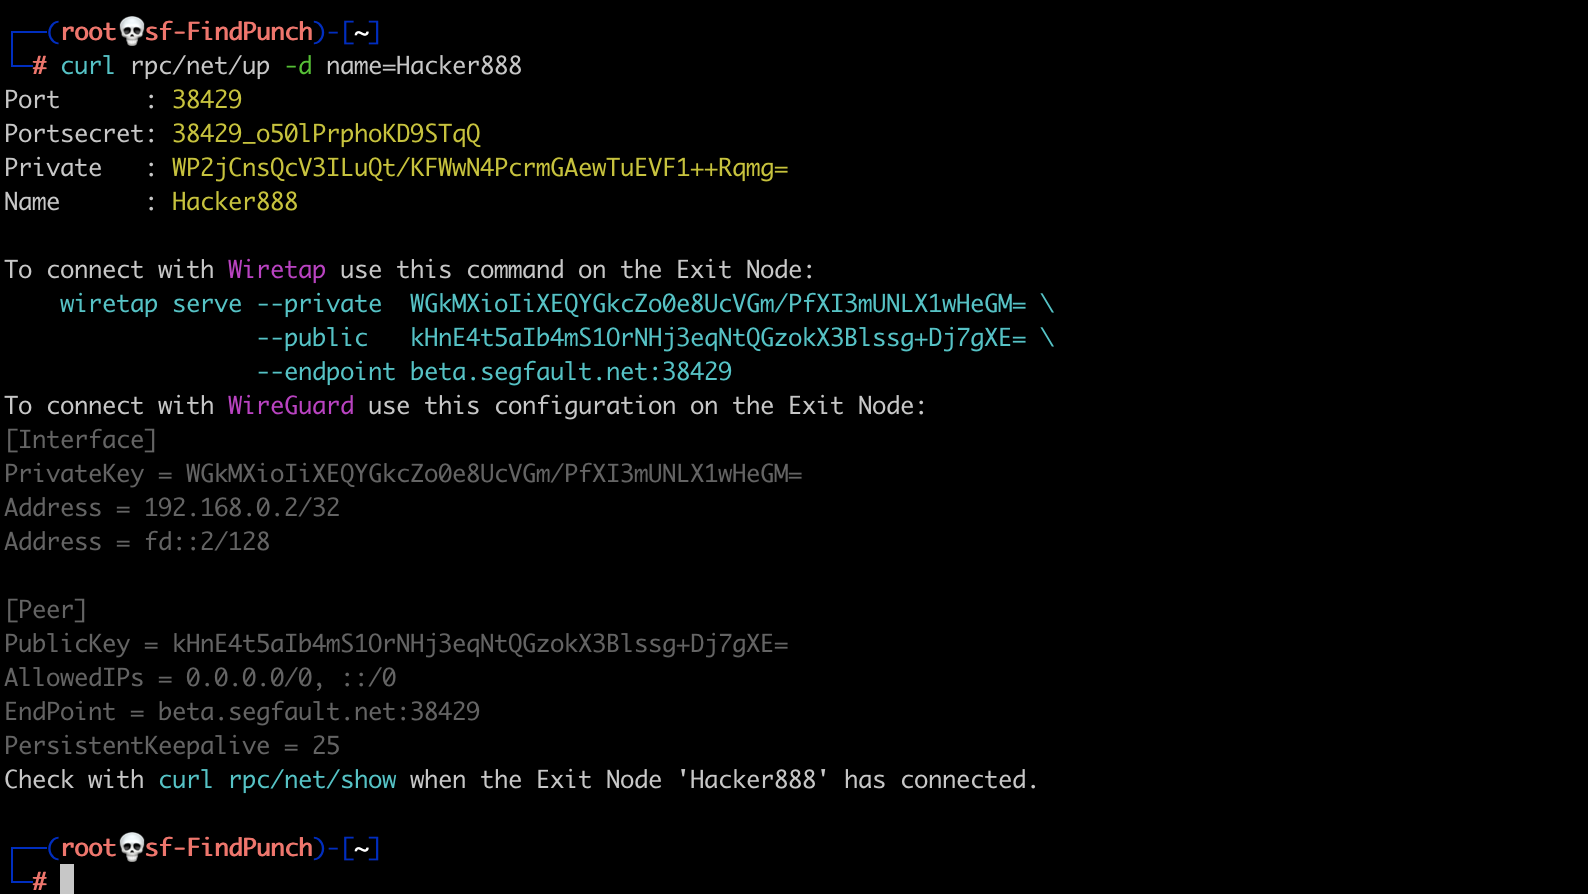
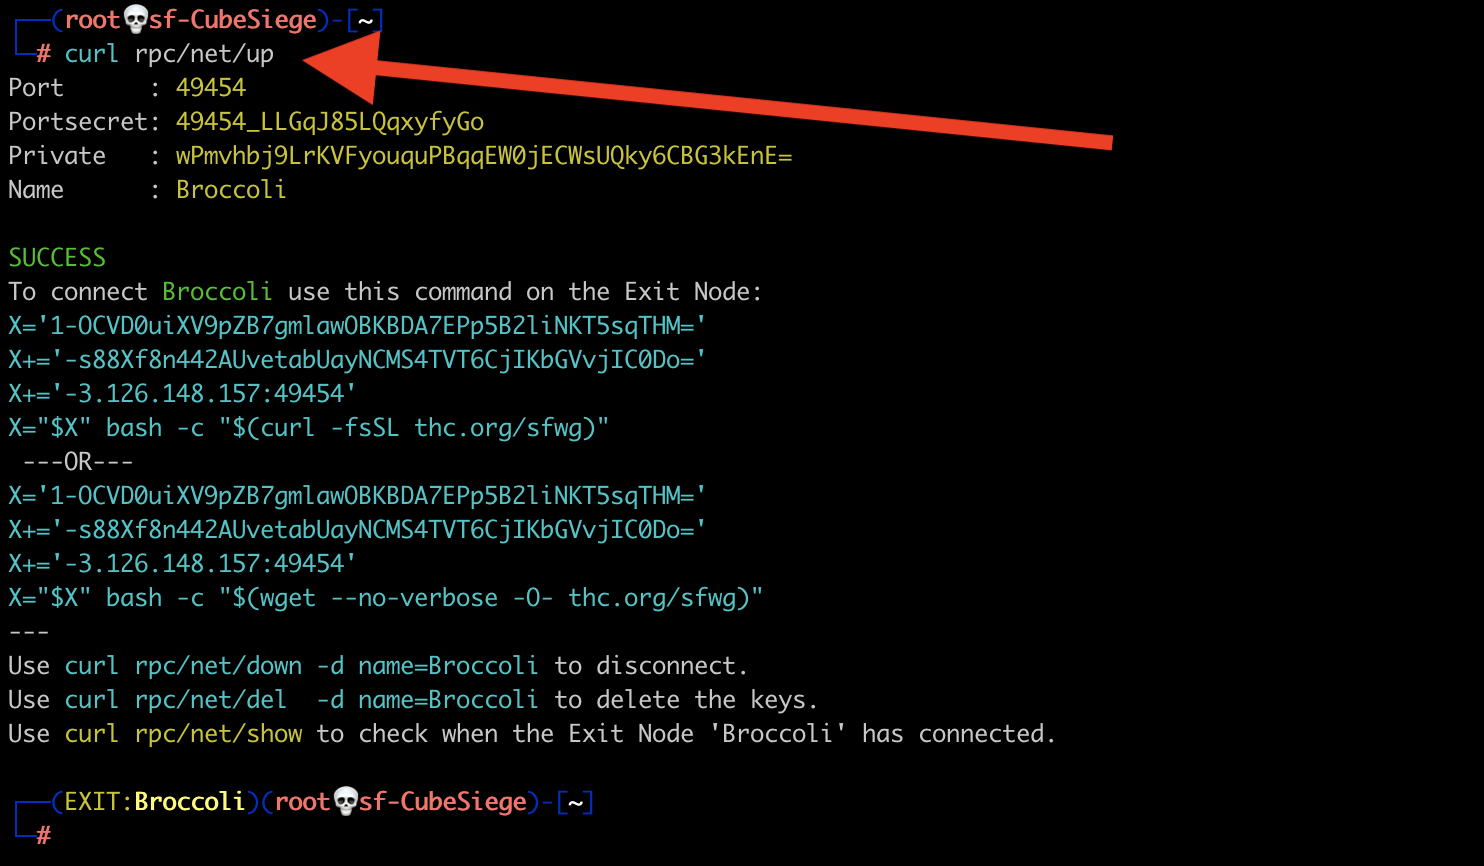
sfwg

Changed region(s): [[0.0, 0.2806, 0.7129, 1.0], [0.0, 0.0, 0.7749, 0.2494]]

diff --git a/segfault/wireguard/index.md b/segfault/wireguard/index.md
@@ -5,80 +5,93 @@ description: Setup WireGuard Reverse Connection on Segfault.
 ---
 
 <div style="text-align:center">
-    <h1>WireGuard Reverse Connection</h1>
+    <h1>Custom WireGuard Exit Nodes</h1>
     <p>Configure your Root Server to send all traffic via another server you own</p>
 </div>
 
 ---
 Typical use cases:
+1. You like to [mass-scan](../faq/#scan) from your [Root Server](../).
 1. You have access to a server (*Exit Node*) and like all traffic from your [Root Server](../) to be routed via your *Exit Node*.
-1. You like to connect from your [Root Server](../) to workstations on a remote firewalled/private LAN (e.g. with nmap, metasploit, smbscan, ...).
-1. You like to mass-scan from your [Root Server](../).
+1. You like to connect from your [Root Server](../) to workstations on a remote firewalled/private LAN (e.g. use nmap, metasploit, smbscan, on your [Root Server](../) to scan the private LAN...).
 1. You like all your traffic from your [Root Server](../) to appear as if originating from your *Exit Node* (a server you own).
 
-A new network interface will (magically) appear on your [Root Server](../): That interface is *virtually* connected to the *Exit Node*. All traffic via that interface will leave via the *Exit Node*.
+A new network interface (wgExit) will magically appear on your [Root Server](../): Traffic from your [Root Server](../) will now leave via the *Exit Node*.
 
-The *Exit Node* can be behind a firewalled NAT gateway (it uses a reverse connection). The *Exit Node* can be Linux, Windows or OSX and no superuser privileges are needed.
-
-No Interface will appear on the *Exit Node*.
+The *Exit Node* can be behind a firewalled NAT gateway (like your workstation is) or any other host on the Internet. Superuser privileges or root access is not needed.
 
 ---
 
 ## Step #1 - On your Root Server
 
-Create and activate a WireGuard interface:
+Create and activate an Exit Node configuration:
 
 ```shell
 curl http://rpc/net/up
 ```
 
-Write down either the Wiretap or WireGuard configuration.
-
 {:refdef: style="text-align: center;"}
 ![login screen](wg-up2.png){:height="80%" width="80%"}
 {: refdef}
 
+Your [Root Server](../) is now ready to accept an Exit Node.
+
 ## Step #2 - On the Exit Node
 
-The Exit Node is any host (Linux, Windows, OSX) you have access to and which network you like to connect to from your [Root Server](../).
+Cut & paste the output from above into the shell on your Exit Node:
+{:refdef: style="text-align: center;"}
+![login screen](sfwg.png){:height="80%" width="80%"}
+{: refdef}
 
-Use either Wiretap or WireGuard.
-
-1. __Wiretap:__ Install the pre-compiled single [Wiretap binary](https://github.com/sandialabs/wiretap/releases/tag/v0.2.1) for Linux, Windows or OSX. Execute the Wiretap command as shown in the output from your *curl http://rpc/net/up* command in Step #1.
-1. __WireGuard:__ Install & configure [WireGuard](https://www.wireguard.com/). Use the configuration as shown in the output from your *curl http://rpc/net/up* command in Step #1.
-
-On your [Root Server](../) check the connection:
-
-```shell
-curl http://rpc/net/show
-```
+**>> All traffic from your Root Server will now leave via the Exit Node <<**
 
 ## More Shenanigans
 
-Each command is executted on the [Root Server](../) (after the Exit Node has connected).
+Each command is executed on the [Root Server](../) (after the Exit Node has connected).
+
+__Check Exit Node__
+
+```
+curl http://rpc/net/show
+```
+
+__Masscan the Internet__
+
+```
+### Simple
+masscan --interface wgExit -p 22,80,443 --range 1.0.0.0-8.255.255.255
+### With banner grabbing:
+masscan --interface wgExit -p 22,80,443 --range 1.0.0.0-8.255.255.255 --source-ip 192.168.0.3 --banners
+```
+
+__Ping an IPv6 host__
+
+```
+ping6 2606:4700:4700::64
+```
 
 __Scan the remote private LAN__
 
 ```
-nmap -n -sT -T4 -F --open --script=banner 192.168.0.0/24
+nmap -n -sT -T4 -F --open --script=banner 192.168.123.0/24
 ```
 
 __Crackmapexec the LAN__
 
 ```
-cme smb 192.168.0.0/24
+cme smb 192.168.123.0/24
 ```
 
 __Find Window shares on the LAN__
 
 ```
-nbtscan 192.168.0.0/24
+nbtscan 192.168.123.0/24
 ```
 
 __SNMP dump__
 
 ```
-snmp-check 192.168.0.250
+snmp-check 192.168.123.250
 ```
 
 __Log in to a workstation (Remote Desktop/RDP) on the LAN__
@@ -94,7 +107,7 @@ __Poke [the lion](police-cars-police-chase.gif) and appear as if originating fro
 amass enum -d nsa.gov
 ```
 
-__...and other [Hacks, Tips and Tricks](tricks.html).__
+<!-- __...and other [Hacks, Tips and Tricks](tricks.html).__ -->
 
 ## Contact
 
